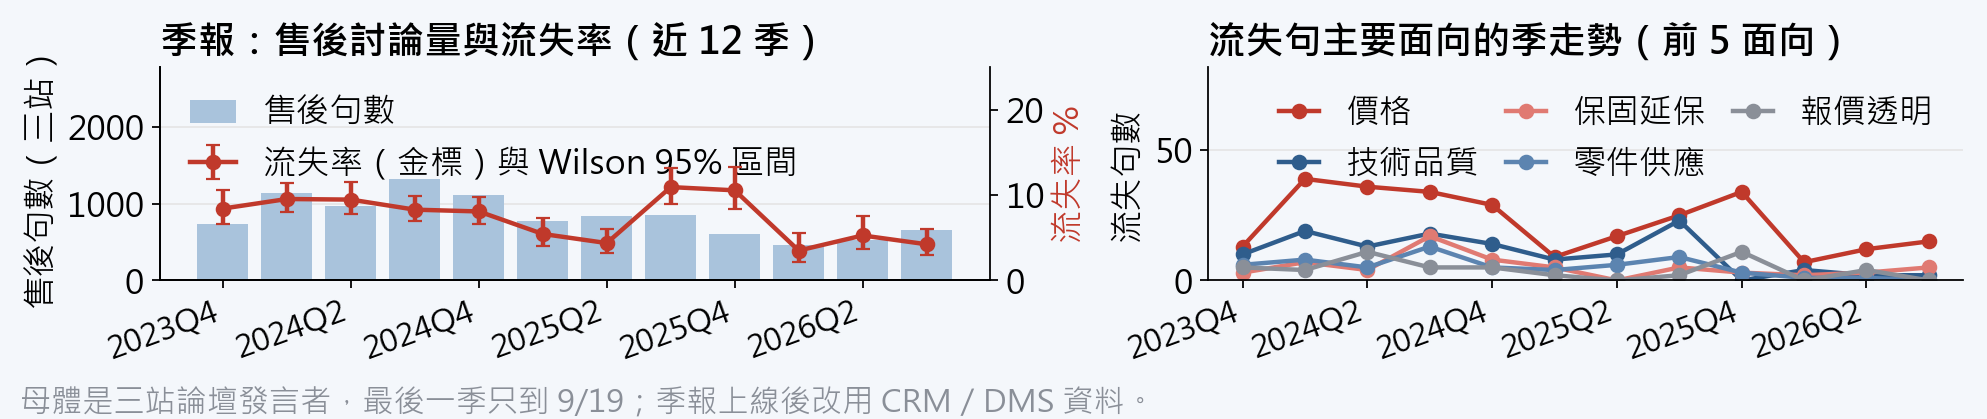
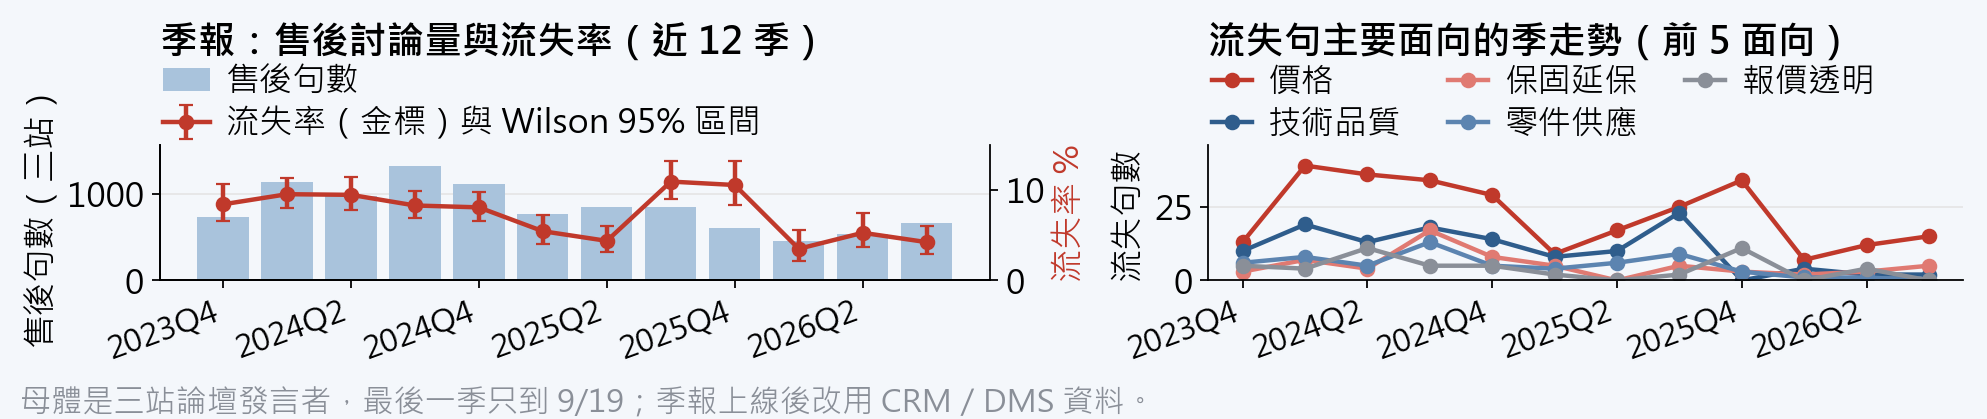
第 21 頁 F9：圖例移到圖外上方，不再壓折線與資料點
pipeline/trend_reports.py fig_quarterly：兩張子圖的圖例改錨在軸頂（loc=lower left, bbox_to_anchor=(0,1)），
各兩列，放在標題與圖區之間；圖例設 in_layout=False，tight_layout 不會為了塞圖例把圖區壓窄，空間由標題 pad 預留。
縱軸餘裕由 2.1 倍降到約 1.2 倍，資料填滿圖區；字級 14–17 不變（1920px 預覽約 28–30px）。
數字與文字內容不變。build_deck.py 版號改 3.4。

Claude-Session: https://claude.ai/code/session_01F8CmRv7nEf1gJrnjQ3vurE

diff --git a/pipeline/trend_reports.py b/pipeline/trend_reports.py
@@ -117,15 +117,20 @@ def style(ax):
 
 
 def fig_quarterly(qs, g, ea):
-    # 尺寸對齊附錄 A2b 下半格（12.42×2.62 吋），貼進簡報不縮放；字級 15–17，1920px 預覽約 30px。
-    # 季別隔季標示、只斜 20 度；圖例留在圖內上方，縱軸拉高一倍讓圖例不壓到資料。
+    # 尺寸對齊附錄 A2b 下半格（12.42×2.62 吋），貼進簡報不縮放；字級 14–17，1920px 預覽約 28–30px。
+    # 圖例放在圖外、標題與圖區之間（loc=lower left 錨在軸頂，各兩列），不壓任何長條、折線、誤差棒或資料點；
+    # 圖例設 in_layout=False，tight_layout 不會為了塞下圖例而把圖區壓窄，空間改由標題 pad 預留。
+    # 縱軸只留約 1.2 倍餘裕，讓資料填滿圖區。
     fig, (ax1, ax2) = plt.subplots(1, 2, figsize=(12.42, 2.62), dpi=160, gridspec_kw={"width_ratios": [1.1, 1]})
     fig.patch.set_facecolor("#F4F7FB")
     ax1.set_facecolor("#F4F7FB")
     ax2.set_facecolor("#F4F7FB")
+    legend_kw = {"frameon": False, "fontsize": 15, "borderaxespad": 0.0, "borderpad": 0.1,
+                 "handletextpad": 0.5, "columnspacing": 1.4, "labelspacing": 0.25}
+    title_pad = 41  # 標題抬高，中間放兩列圖例
     x = list(range(len(qs)))
     ax1.bar(x, g["n"], color=BLUE_LIGHT, label="售後句數")
-    ax1.set_ylim(0, float(g["n"].max()) * 2.1)
+    ax1.set_ylim(0, float(g["n"].max()) * 1.18)
     ax1.set_ylabel("售後句數（三站）", fontsize=15)
     ax1.set_xticks(x[::2], qs[::2], rotation=20, ha="right", fontsize=14)
     ax1.tick_params(axis="y", labelsize=15)
@@ -134,12 +139,13 @@ def fig_quarterly(qs, g, ea):
                   color=RED, marker="o", lw=2, capsize=3, label="流失率（金標）與 Wilson 95% 區間")
     ax1b.set_ylabel("流失率 %", color=RED, fontsize=15)
     ax1b.tick_params(axis="y", labelsize=15)
-    ax1b.set_ylim(0, max(25, 100 * g["hi"].max() + 2))
+    ax1b.set_ylim(0, max(15.0, 100 * float(g["hi"].max()) * 1.1))
     ax1b.spines["top"].set_visible(False)
-    ax1.set_title("季報：售後討論量與流失率（近 12 季）", loc="left", fontsize=17, fontweight="bold")
+    ax1.set_title("季報：售後討論量與流失率（近 12 季）", loc="left", fontsize=17, fontweight="bold", pad=title_pad)
     h1, l1 = ax1.get_legend_handles_labels()
     h2, l2 = ax1b.get_legend_handles_labels()
-    ax1.legend(h1 + h2, l1 + l2, loc="upper left", frameon=False, fontsize=15, handlelength=1.4)
+    ax1.legend(h1 + h2, l1 + l2, loc="lower left", bbox_to_anchor=(0, 1.0), ncol=1, handlelength=1.4,
+               **legend_kw).set_in_layout(False)
     top = ea.groupby("aspects")["churn"].sum().sort_values(ascending=False).head(5).index
     piv = ea[ea["aspects"].isin(top)].pivot(index="quarter", columns="aspects", values="churn").reindex(qs).fillna(0)
     for col, color in zip(top, [RED, BLUE, "#E07A72", "#5C84B0", GREY]):
@@ -147,9 +153,9 @@ def fig_quarterly(qs, g, ea):
     ax2.set_xticks(x[::2], qs[::2], rotation=20, ha="right", fontsize=14)
     ax2.tick_params(axis="y", labelsize=15)
     ax2.set_ylabel("流失句數", fontsize=15)
-    ax2.set_title("流失句主要面向的季走勢（前 5 面向）", loc="left", fontsize=17, fontweight="bold")
-    ax2.set_ylim(0, float(piv.values.max()) * 2.1)
-    ax2.legend(frameon=False, fontsize=15, ncol=3, loc="upper right", handlelength=1.2, columnspacing=0.8)
+    ax2.set_title("流失句主要面向的季走勢（前 5 面向）", loc="left", fontsize=17, fontweight="bold", pad=title_pad)
+    ax2.set_ylim(0, float(piv.values.max()) * 1.18)
+    ax2.legend(loc="lower left", bbox_to_anchor=(0, 1.0), ncol=3, handlelength=1.2, **legend_kw).set_in_layout(False)
     style(ax1)
     style(ax2)
     fig.text(0.01, 0.015, "母體是三站論壇發言者，最後一季只到 9/19；季報上線後改用 CRM／DMS 資料。", fontsize=14, color=GREY)

diff --git a/deck/build_deck.py b/deck/build_deck.py
@@ -8,7 +8,8 @@
 模板：attachments/2026和泰AI黑客松＿初賽簡報模板.pptx
 輸出：deck/初賽簡報_vX.Y.pptx、deck/初賽簡報_latest.pptx、deck/README.md；
 若本機有 PowerPoint，另匯 deck/preview/初賽簡報_vX.Y.pdf 與 deck/preview/vX.Y/。
-內容是 v3.3（封面、摘要、大綱、P1–P14、附錄 A0–A5）。投影片 24 張。
+內容是 v3.4（封面、摘要、大綱、P1–P14、附錄 A0–A5）。投影片 24 張。
+v3.4：第 21 頁 F9 季趨勢圖重畫，兩張子圖的圖例移到圖外上方（標題與圖區之間），不再壓到折線與資料點；其他頁不動。
 v3.3 全頁版面重做：第 3–24 頁的卡片、字級、標籤位置統一；F1–F7 與資料處理鏈改用 pptx 原生形狀畫，
 數字讀 reports/figures/figure_values.json（pipeline/make_figures.py --values-only）；F8 在第 9 頁與附錄 A0
 都用原生形狀（draw_f8）；只有 F9 季趨勢仍貼 PNG。封面與摘要左欄是模板，不動。
@@ -38,7 +39,7 @@ from pptx.util import Inches, Pt
 ROOT = Path(__file__).resolve().parents[1]
 # 版號。每次改簡報內容都要升號：小改 +0.1，PO 審過的里程碑升整數。
 # --version X.Y 可覆蓋。同版號已在 deck/versions/ 時，未加 --force 會中止。
-DECK_VERSION = "3.3"
+DECK_VERSION = "3.4"
 README = ROOT / "deck" / "README.md"
 PREVIEW = ROOT / "deck" / "preview"
 VERSIONS = ROOT / "deck" / "versions"
@@ -2202,6 +2203,7 @@ def build_a2(slide, y):
 
 def build_a2b(slide, y):
     # F6 原生散點在上；F9 季趨勢 PNG 依本格尺寸重畫（12.42×2.62 吋），貼進來不縮放、填滿整格。
+    # v3.4 起 F9 的圖例畫在圖外上方（pipeline/trend_reports.py fig_quarterly），不壓資料。
     cap_h = 0.50
     gap = 0.08
     f6 = figv()["F6"]["bins"]
